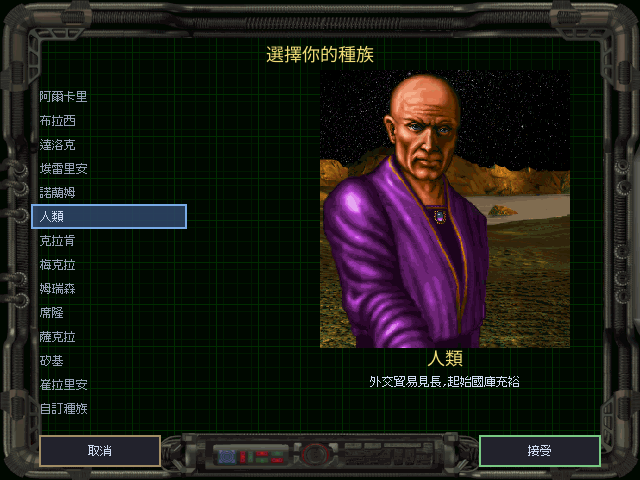
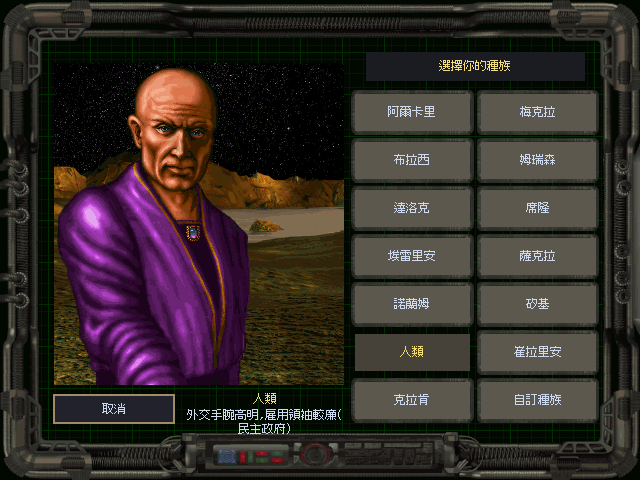
docs: README 換上最新畫面 + 修掉過期斷言;WORKLIST 補 2026-08-07 摘要
README 的預覽圖是 2026-07-11 拍的,那之後種族選擇整個改過(左右擺反修掉)、
殖民地換成原版 COLPUPS 框架、新遊戲設定與艦艇設計是全新畫面。重拍 17 張
(`-gamegallery` 實際輸出)並補上三張英文模式的,示範「讓路」那條路徑
——底下是原版美術時不擦不疊,直接露 1996 年烘在圖上的英文。

順帶修掉 README 與 WORKLIST 裡已被推翻的斷言:

- 「逐畫面像素級熱區對齊(多數仍是估計座標)」→ 那批已用反組譯重挖完;
  剩的是兩個**子系統**(殖民地行星表面 + 艦艇設計右上兩格),不是座標沒挖。
- 「無對應 openorion2 view 的畫面只能維持估計座標」「至此無純自驅剩項,
  剩全是 oracle-gated(DOSBox)」→ 兩句都錯,真值在 exe 的反組譯裡。
- 「完整新遊戲流程…待對齊」→ 流程已對齊原版,剩的是母星初始數值校準。
- 截圖廊 24 畫面 → 26。

docs/screenshots 先前是 root 所有(docker 掛載寫進去的),用 docker chown
回 1000:1000,不然使用者自己動不了那個目錄。

diff --git a/README.md b/README.md
@@ -79,13 +79,22 @@ assets.Resolver → OpenLBX → DecodeImage → 內嵌調色盤 → RLE 解碼
 `cmd/moo2 -game` 互動版已可從主選單一路玩到結束一局:玩家與 3 個性格互異的 AI 對手各自拓殖擴張,
 經濟(殖民地建築/重力/礦產/士氣/指揮評等/收入)已對手冊逐項核實,戰鬥(光束/飛彈/球狀傷害/地面戰
 陸戰隊+戰車+軌道轟炸)依真公式解算,三條勝利路徑(征服/銀河議會/安塔蘭母星反攻)全數接線可達成。
-以上皆有 headless 模擬探針(數十~數百回合)與 GUI 導覽截圖(`-gamegallery`,24 畫面端到端)驗證,
+以上皆有 headless 模擬探針(數十~數百回合)與 GUI 導覽截圖(`-gamegallery`,26 畫面端到端)驗證,
 70 回合無 panic。**這是「什麼現在能運作」的可驗證事實,不是還原度自評**——詳見
 [`docs/HONEST-STATUS.md`](docs/HONEST-STATUS.md)。
 
+### ✅ Phase 6 — 版面改對原版執行檔的反組譯(2026-08-07)
+
+先前「無對應 openorion2 view 的畫面只能用估計座標」是**錯的**:真值在原版執行檔的反組譯裡,
+與 openorion2 有沒有實作無關。改用「反組譯立即數 → openorion2 `initWidgets` → LBX 資產尺寸交叉
+驗證」這條優先序後,新遊戲設定、殖民地、種族選擇、艦艇設計、地面戰、多人設定逐一重挖完成,
+順帶修掉三個**只看畫面看不出來**的還原錯誤:新遊戲左下框是 PLAYERS 不是 RACE、種族選擇的
+左右擺反了、艦艇設計六個艦體槽在原版**不等距**(remake 先前照 17px 等距排)。
+方法與逐項對照見 [`docs/re/01-gap-report.md`](docs/re/01-gap-report.md)。
+
 ### ⏭ 下一步
-逐畫面像素級熱區對齊(多數仍是估計座標)、新遊戲流程與原版母星初始狀態的細節對齊、戰機/航母、
-完整 spy/leader/diplomacy UI、武器 mod 的飛彈專屬項與小型化門檻、音樂曲目↔場景的最終聽感比對定案。
+母星初始狀態的數值校準、戰機/航母子模型、完整 spy/leader/diplomacy UI、武器 mod 的飛彈專屬項與
+小型化門檻、音樂曲目↔場景的最終聽感比對定案、英文模式的引擎層字串。
 下一節「目前貢獻」逐項列出已驗證與仍缺的部分。
 
 ---
@@ -120,8 +129,10 @@ assets.Resolver → OpenLBX → DecodeImage → 內嵌調色盤 → RLE 解碼
 - Linux AppImage / Windows(純 Go 跨編)/ macOS(CI)三平台打包(見 [`docs/tech/packaging.md`](docs/tech/packaging.md))
 
 **仍在進行 / 仍缺**(不是「能不能玩」的阻塞,是「像不像原版」的差距)
-- 逐畫面像素級熱區對齊(多數仍是估計座標,非整畫面返回鍵)
-- 完整新遊戲流程與原版母星初始狀態的細節對齊
+- 兩個**子系統**(不是座標沒挖):殖民地畫面中段的行星表面 + 建築 sprite 擺放、艦艇設計右上兩格的
+  內容欄位——兩者都卡在執行檔裡烘死的幾何表尚未抽出,見 [`docs/re/01-gap-report.md`](docs/re/01-gap-report.md)
+- 母星初始狀態的數值校準(流程本身已對齊原版:版本→難度/星系→14 族肖像→自訂點數→命名旗色)
+- 英文模式:UI 層已雙語,引擎產生的字串(星名/建築名/行星屬性)仍是中文
 - 戰機/航母、完整 spy/leader/diplomacy UI、多 AI 對手的目標選擇策略(目前為索引順序,非距離/資源導向)
 - 武器改造(mod)系統的飛彈專屬 mod、小型化等級門檻、火線角
 - 音樂曲目↔場景的最終聽感比對(現用時長啟發式/反組譯佐證,非逐曲聆聽定案)
@@ -131,23 +142,56 @@ assets.Resolver → OpenLBX → DecodeImage → 內嵌調色盤 → RLE 解碼
 
 ## 畫面預覽
 
-以下皆為 `-gamegallery` headless 導覽拍下的**本專案 ebiten renderer 實際輸出**(讀取玩家正版 LBX 資產渲染,非原版截圖翻拍),對應上方「目前貢獻」逐項提到的系統:
+以下皆為 `-gamegallery` headless 導覽拍下的**本專案 ebiten renderer 實際輸出**(讀取玩家正版 LBX 資產渲染,非原版截圖翻拍)。
+版面座標優先取自**原版執行檔的反組譯立即數**,openorion2 沒有實作的畫面也一樣(見 [`docs/re/01-gap-report.md`](docs/re/01-gap-report.md))。
 
-| 主選單(含 1.3/1.5 規則版本切換) | 星系主畫面 |
+| 主選單(1.3/1.5 規則版本 + 中英切換) | 新遊戲設定(五欄,反組譯真值版面) |
 |---|---|
-| ![主選單](docs/screenshots/01_menu.png) | ![星系主畫面](docs/screenshots/04_galaxy.png) |
+| ![主選單](docs/screenshots/01_menu.png) | ![新遊戲設定](docs/screenshots/01b_newgame.png) |
 
-| 種族選擇(原版獨立畫面 + 肖像) | 命名/旗色 |
+| 種族選擇(左肖像 + 右 2×7 網格,同原版) | 命名 / 旗色 |
 |---|---|
 | ![種族選擇](docs/screenshots/02_raceselect.png) | ![命名旗色](docs/screenshots/03_nameflag.png) |
 
-| 殖民地總覽 | 研究選擇 |
+| 星系主畫面 | 回合摘要 |
 |---|---|
-| ![殖民地總覽](docs/screenshots/05_colony.png) | ![研究選擇](docs/screenshots/06_research.png) |
+| ![星系主畫面](docs/screenshots/04_galaxy.png) | ![回合摘要](docs/screenshots/06_turnsummary.png) |
+
+| 殖民地畫面(原版 COLPUPS 框架) | 殖民地總覽 |
+|---|---|
+| ![殖民地畫面](docs/screenshots/10_colonyscreen.png) | ![殖民地總覽](docs/screenshots/09_colonysummary.png) |
+
+| 行星列表 | 帝國資訊(歷史圖表 / 科技 / 種族 / 摘要 / 參考) |
+|---|---|
+| ![行星列表](docs/screenshots/12_planets.png) | ![帝國資訊](docs/screenshots/13_info.png) |
+
+| 艦艇設計(六個艦體槽為原版的**不等距**版面) | 科技總覽 |
+|---|---|
+| ![艦艇設計](docs/screenshots/25_shipdesign.png) | ![科技總覽](docs/screenshots/14_info_tech.png) |
 
 | 外交使節 | 戰術戰鬥 |
 |---|---|
-| ![外交使節](docs/screenshots/07_diplomacy.png) | ![戰術戰鬥](docs/screenshots/08_tactical.png) |
+| ![外交使節](docs/screenshots/15_diplomacy.png) | ![戰術戰鬥](docs/screenshots/16_tactical.png) |
+
+| 地面戰 | 軌道轟炸 |
+|---|---|
+| ![地面戰](docs/screenshots/17_groundcombat.png) | ![軌道轟炸](docs/screenshots/20_bombing.png) |
+
+| 多人遊戲設定(熱座可玩) | |
+|---|---|
+| ![多人遊戲設定](docs/screenshots/23_multiplayer.png) | |
+
+### 英文模式
+
+`-lang en`(或主選單左下角點一下)切回英文。畫面底下是原版美術時**整段讓路**——不擦字、不疊字,
+直接露出 1996 年烘在圖上的英文,比用 Noto 重畫一次更接近原版:
+
+| 種族選擇(露原版 `SELECT RACE` 與族名鈕) | 遊戲選單(露 GAME.LBX 六顆鈕) |
+|---|---|
+| ![英文種族選擇](docs/screenshots/en/02_raceselect.png) | ![英文遊戲選單](docs/screenshots/en/19_gamemenu.png) |
+
+星名、建築名等由引擎產生的字串目前仍是中文,原因與待補清單見
+[`docs/HONEST-STATUS.md`](docs/HONEST-STATUS.md)「英文模式覆蓋率」。
 
 ---
 

diff --git a/WORKLIST.md b/WORKLIST.md
@@ -7,7 +7,15 @@
 
 > ⚠ **「還原度 20%」是 2026-07-04 接原版美術前的過期快照,勿再當現況錨點。** 現為可玩的多帝國 4X 迴圈;詳見 [`docs/HONEST-STATUS.md`](docs/HONEST-STATUS.md)。
 > 下方大量 `[x]` 中,gameplay 子系統類仍須以「對原版實測」重評數值對齊度(rulebook 65),不因測試綠自評還原度。
-> 優先進度(2026-07-12 使用者確認):**①音樂/音效 已完成**(PCM 播放 + 場景 BGM 切換 + 按鈕音效;曲目↔場景精確身分待人耳定案)、**②忠實新遊戲流程 已完成**(版本選擇→難度/星系→14 族肖像選擇→自訂點數→命名旗色→真母星;turn-1 少數數值待 playtest 校準)、**④gameplay 子系統全接**(殘留=原版 oracle 校準數字)、**③按鍵像素對齊已做到 openorion2 oracle 上限**(逐畫面比對 initWidgets 真值補齊估計座標;無對應 view 的畫面只能維持 PIL)。**至此無純自驅剩項**——剩全是 oracle-gated(DOSBox)、需建基礎設施(戰機/航母)、或設計面 UI。
+> 優先進度(2026-07-12 使用者確認):**①音樂/音效 已完成**(PCM 播放 + 場景 BGM 切換 + 按鈕音效;曲目↔場景精確身分待人耳定案)、**②忠實新遊戲流程 已完成**(版本選擇→難度/星系→14 族肖像選擇→自訂點數→命名旗色→真母星;turn-1 少數數值待 playtest 校準)、**④gameplay 子系統全接**(殘留=原版 oracle 校準數字)。
+>
+> ⚠ **2026-08-07 翻案**:上面第 ③ 項原本寫「像素對齊已做到 openorion2 oracle 上限,無對應 view 的
+> 畫面只能維持 PIL(估計座標)」,並據此推論「至此無純自驅剩項,剩全是 oracle-gated(DOSBox)」。
+> **兩句都錯。** 真正的一手座標在**原版執行檔的反組譯**裡,與 openorion2 有沒有實作那個畫面無關。
+> 改用「反組譯立即數 → openorion2 `initWidgets` → LBX 資產尺寸交叉驗證」之後,先前被判為
+> 「只能估計」的畫面(新遊戲設定 / 殖民地 / 種族選擇 / 艦艇設計 / 地面戰 / 多人設定 / 熱座交接)
+> 全部重挖完成,而且挖出三個**只看畫面看不出來**的還原錯誤(新遊戲左下框是 PLAYERS 不是 RACE、
+> 種族選擇左右擺反、艦艇設計六個艦體槽不等距)。詳見 `docs/re/01-gap-report.md`。
 >
 > 可勾選工作清單,對應 `PLAN.md` 階段。允許擴充(CLAUDE.md)。完整性優先:不預先砍項;卡關記錄方法換路,不寫「暫緩/低投報」。
 > 圖例:`[ ]` 待辦 `[~]` 進行中 `[x]` 完成(⚠ 多為自製系統的完成,非原版對齊)。
@@ -108,6 +116,21 @@
 - [x] **多人對戰通訊考據 + Phase 9 開項**:原版 CD 手冊 OCR 出通訊方式(序列/數據機/IPX 區網/TEN),
   架構=決定性 lockstep;方向定案「保留 lockstep、傳輸換 TCP、先做熱座」。`docs/tech/multiplayer-architecture.md`、
   `d31d182`(見下方 Phase 9)。
+
+## ★ 2026-08-07(反組譯對齊版面 + 英文模式 UI 層)
+> 細節見 `docs/re/01-gap-report.md`、`docs/HONEST-STATUS.md`。
+
+- **版面來源改成反組譯**:確立優先序「exe 立即數 > openorion2 `initWidgets` > LBX 資產尺寸交叉
+  驗證 > 量圖」。用它重挖了新遊戲設定、殖民地、種族選擇、艦艇設計、地面戰、多人設定、熱座交接。
+- **修掉三個看畫面看不出來的還原錯誤**:新遊戲左下框是 PLAYERS(不是 RACE,對手數先前寫死 3)、
+  種族選擇左右擺反(原版是左肖像 + 右 2×7 網格)、艦艇設計六個艦體槽**不等距**(15/14/17/14/14/16)。
+- **接上先前選了沒作用的設定**:星系年齡(先前被常數寫死成「普通」)、帝國總數 2–8、
+  難度五級(補回教學)、起始科技等級的第一個真效果(曲速前開局沒有 FTL,艦隊出不了本星系)。
+- **多人**:熱座(同機輪流)可玩 + 主選單 MULTI PLAYER 接上原版設定畫面。
+- **英文模式 UI 層**:`cmd/moo2` 自繪畫面全部雙語。優先「讓路」(底下是原版美術就露出烘在圖上的
+  英文),其餘用 `b.tr(zh, en)`。護欄是 `lang_gap_test.go`(go/ast 棘輪)。引擎層字串未做。
+- **兩個零值陷阱**(都加了回歸測試):`TechLevel` 零值 = 曲速前 → 舊存檔艦隊全凍住;
+  `i18n.English` 是 `Lang` 的零值 → 忘了設 lang 的建構路徑會靜默變英文。
 
 ## Phase 0 — Kick-off / 可行性(本輪)
 - [x] 盤點 openorion2 完成度(`docs/kickoff/01`)
